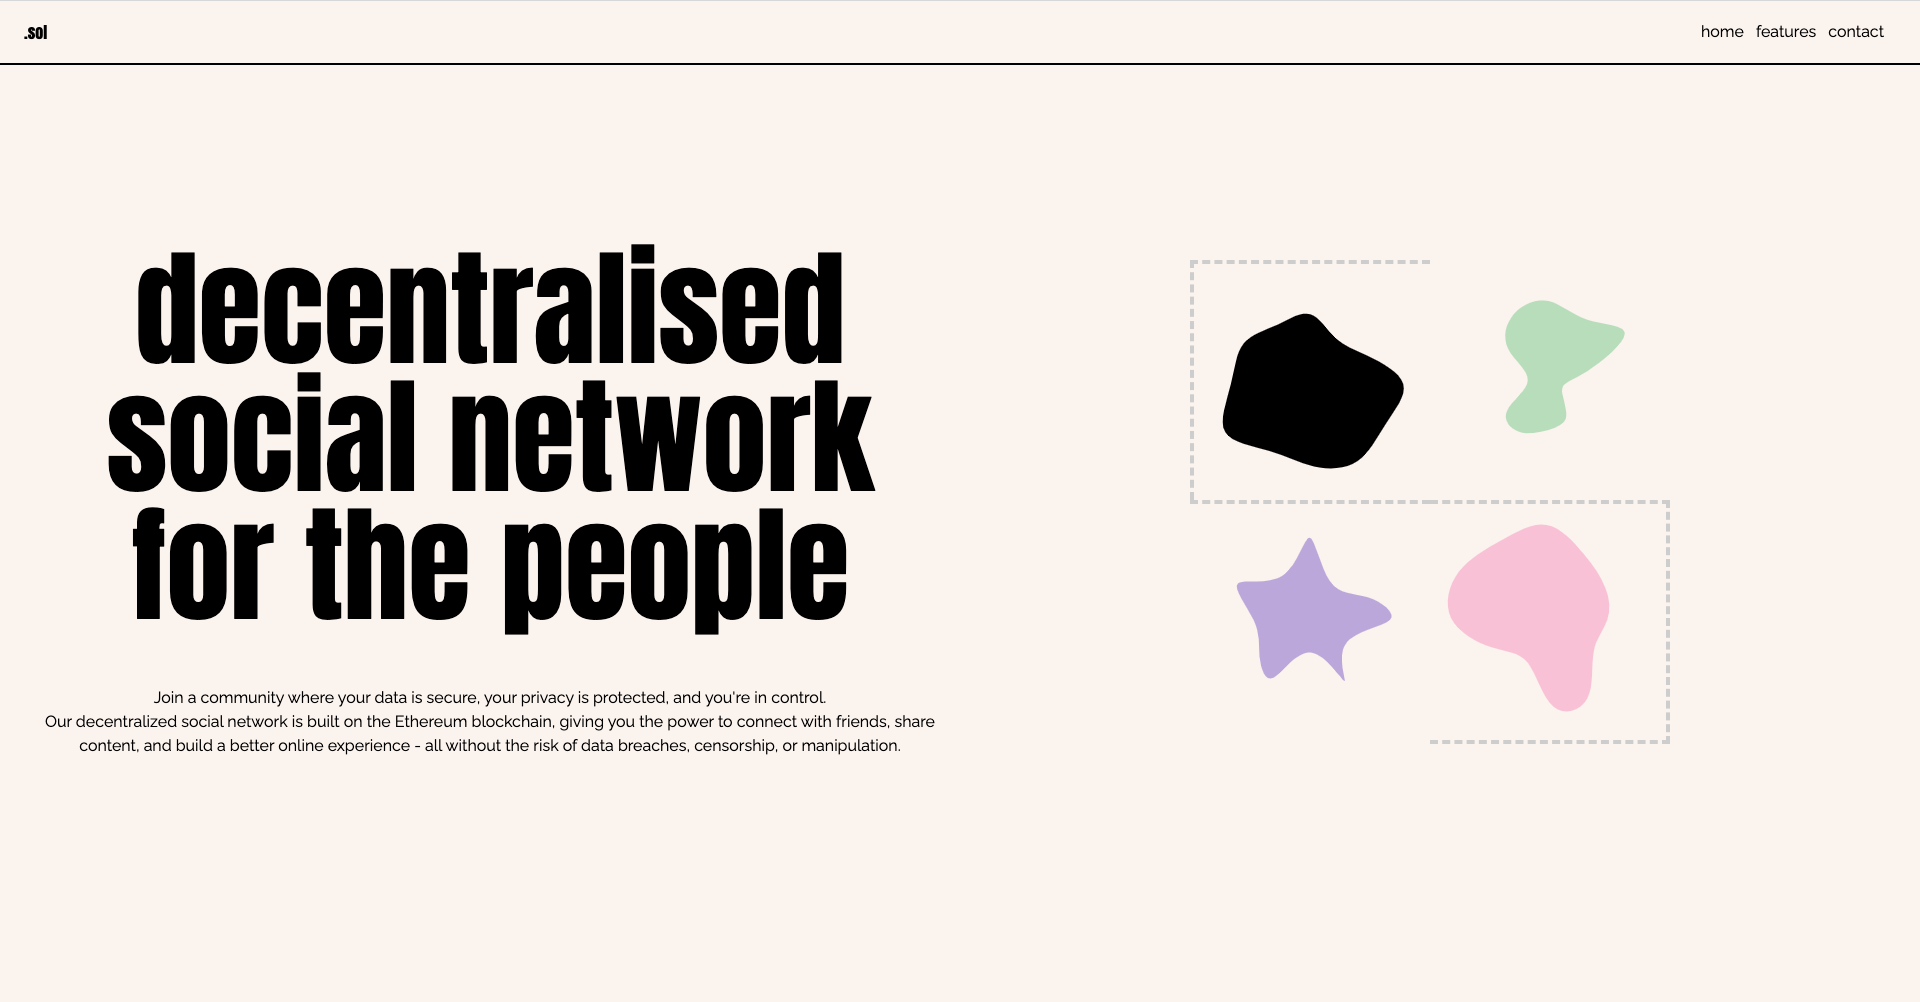
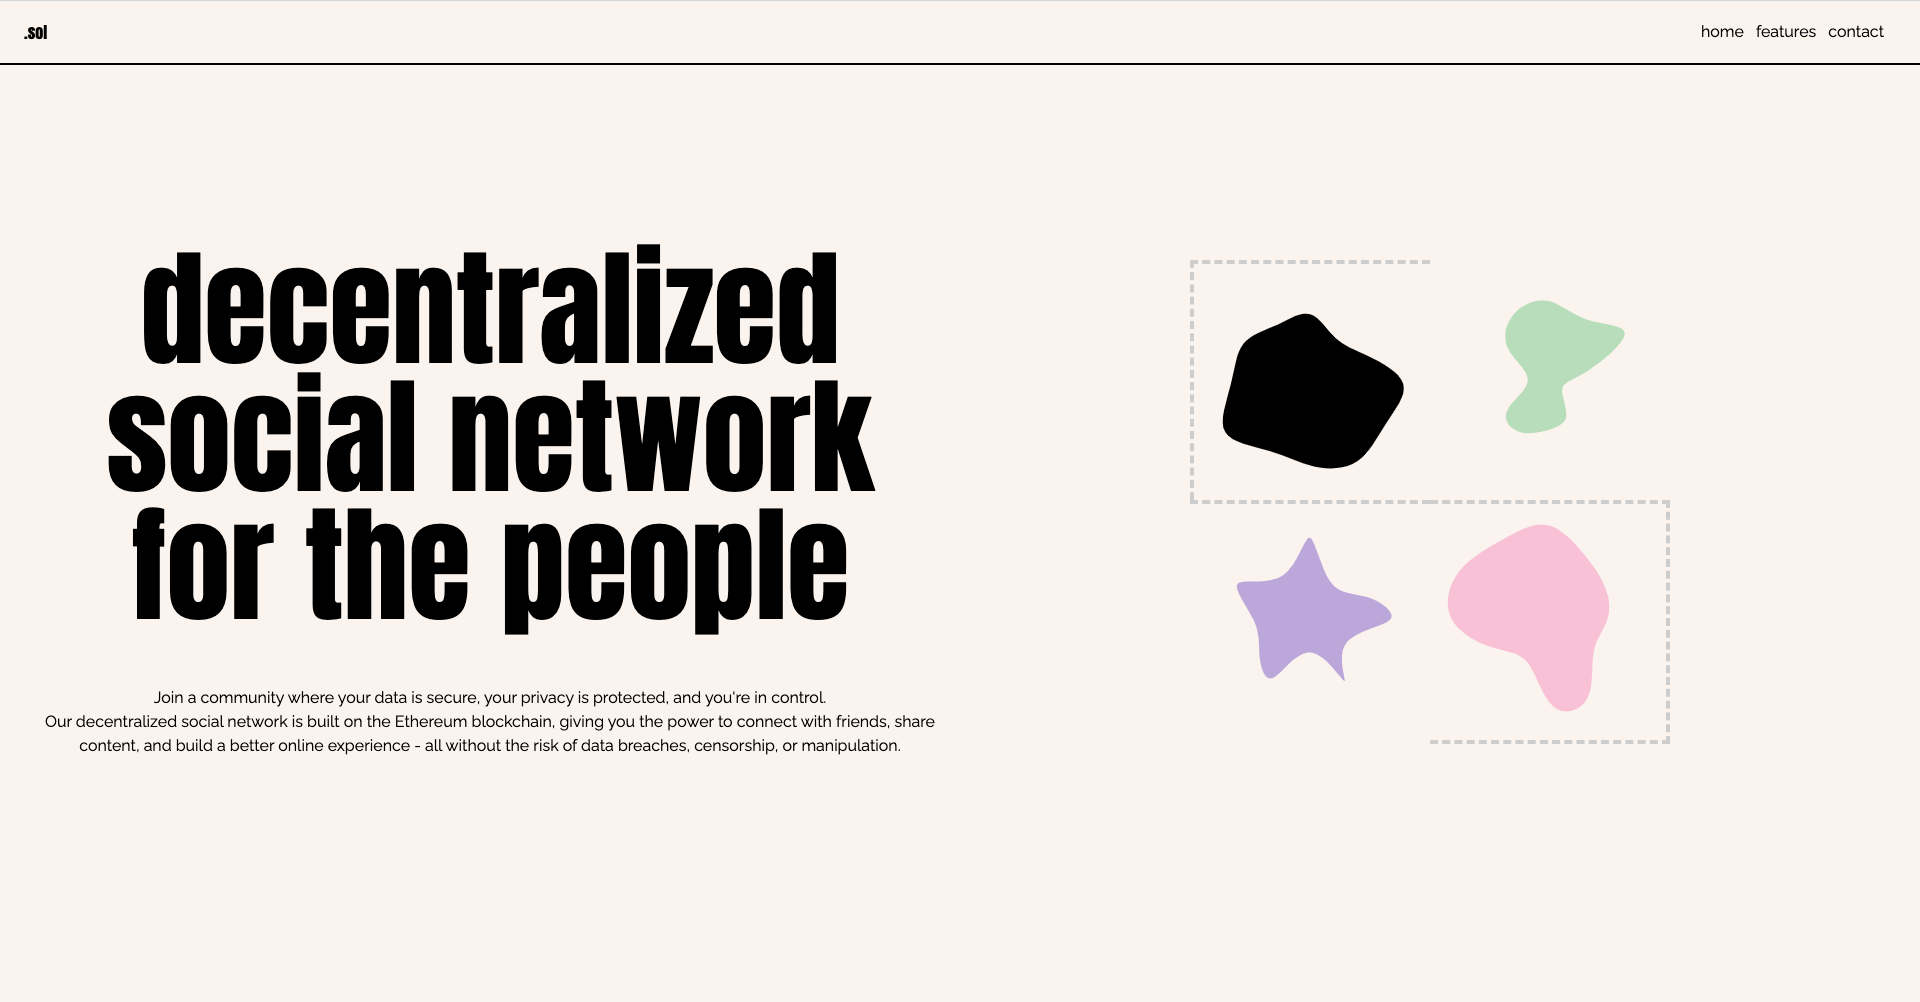
Add modal without animation

Changed region(s): [[0.0625, 0.2475, 0.4375, 0.3713]]

diff --git a/frontend/src/components/display/Modal.tsx b/frontend/src/components/display/Modal.tsx
@@ -1,0 +1,65 @@
+import Image from 'next/image';
+import { useEffect, ReactNode, useCallback } from 'react';
+
+import closeIcon from '@/assets/home/header/close.svg';
+
+function Modal(props: ModalProps) {
+  const closeOnEscapeKeyDown = useCallback(
+    (e: KeyboardEvent) => {
+      if (e.key === 'Esc' || e.key === 'Escape') props.onHide();
+    },
+    [props]
+  );
+
+  useEffect(() => {
+    document.body.addEventListener('keydown', closeOnEscapeKeyDown);
+    return () => {
+      document.body.removeEventListener('keydown', closeOnEscapeKeyDown);
+    };
+  }, [closeOnEscapeKeyDown]);
+
+  return props.show ? (
+    <div
+      className="modal fixed top-0 left-0 right-0 bottom-0 w-screen h-screen bg-[rgba(0,0,0,0.5)] flex items-center justify-center"
+      onClick={props.onHide}
+    >
+      <div
+        className="modal__content bg-[var(--sol-bg-main)] w-[100%] max-w-[500px] border-8 border-black p-4"
+        onClick={(e) => e.stopPropagation()}
+      >
+        <div className="modal__header flex items-center justify-between mb-2">
+          <h1 className="modal__title text-xl">{props.title}</h1>
+          {!!props.closeButton && (
+            <button onClick={props.onHide}>
+              <Image
+                src={closeIcon}
+                width={36}
+                height={36}
+                alt="Close modal icon"
+              />
+            </button>
+          )}
+        </div>
+        <div className="h-0.5 bg-black" />
+        <div className="modal__body my-3">{props.children}</div>
+        <div className="h-0.5 bg-black" />
+        <div className="modal__footer my-2">{props.Footer}</div>
+      </div>
+    </div>
+  ) : null;
+}
+
+Modal.defaultProps = {
+  closeButton: true,
+};
+
+interface ModalProps {
+  show: boolean;
+  title: string;
+  Footer: ReactNode;
+  children: ReactNode;
+  closeButton?: boolean;
+  onHide: () => void;
+}
+
+export default Modal;

diff --git a/frontend/src/pages/index.tsx b/frontend/src/pages/index.tsx
@@ -2,7 +2,7 @@ import Head from 'next/head';
 import Image from 'next/image';
 
 import landingBlobs from '@/assets/landing/blobs';
-import LandingHeader from '@/components/landing/header/Header';
+import LandingHeader from '@/components/landing/Header';
 
 const blobSize = 240;
 
@@ -13,7 +13,7 @@ export default function Landing() {
         <title>Solidus</title>
         <meta
           name="description"
-          content="Decentralised social networking application"
+          content="Decentralized social networking application"
         />
         <meta name="viewport" content="width=device-width, initial-scale=1" />
         <link rel="icon" href="/favicon.ico" />
@@ -24,7 +24,7 @@ export default function Landing() {
         <div className="hero home rounded-lg p-5 text-center flex h-[100%]">
           <div className="hero__left border-slate w-[100%] lg:w-1/2 p-1 flex flex-col items-center justify-center">
             <h1 className="text-7xl xl:text-8xl 2xl:text-9xl select-none p-2">
-              decentralised social network for the people
+              decentralized social network for the people
             </h1>
             <hr className="my-6" />
             <p className="p-2 pt-0">

diff --git a/frontend/src/components/home/Feed.tsx b/frontend/src/components/home/Feed.tsx
@@ -5,13 +5,11 @@ import { post1 } from '@/utils/data/Post';
 
 export default function Feed() {
   return (
-    <div
-      className={`post-feed border-slate w-[100%] h-[calc(100%)] overflow-auto`}
-    >
+    <div className="post-feed border-slate w-[100%] h-[calc(100%)] overflow-auto">
       {new Array(20).fill(null).map((_, i) => (
         <div
           key={`post-${i}`}
-          className="post-feed__post-item bg-[var(--sol-secondary-bg)] pt-4"
+          className="post-feed__post-item bg-[var(--sol-bg-secondary)] border-black border-8 pt-4 my-4"
         >
           <div className="post-feed__post-item-meta flex items-center px-2 my-2">
             {
@@ -36,7 +34,7 @@ export default function Feed() {
             {!!post1.text && !!post1.image && <hr className="mb-4" />}
             {!!post1.image && (
               <img
-                className="my-2 border-black border-4"
+                className="my-2 border-black border-2"
                 src={post1.image}
                 alt="Post image"
               />

diff --git a/frontend/src/components/home/PostForm.tsx b/frontend/src/components/home/PostForm.tsx
@@ -1,0 +1,30 @@
+import Image from 'next/image';
+import { useState } from 'react';
+
+import Modal from '@/components/display/Modal';
+import writeIcon from '@/assets/home/header/write.svg';
+
+function PostForm() {
+  const [showModal, setShowModal] = useState(false);
+  return (
+    <>
+      <button
+        className="hover:opacity-50 active:opacity-25"
+        onClick={() => setShowModal(true)}
+      >
+        <Image src={writeIcon} width={32} height={32} alt="Write post icon" />
+      </button>
+
+      <Modal
+        show={showModal}
+        title="Create Post"
+        Footer={<div>Footer</div>}
+        onHide={() => setShowModal(false)}
+      >
+        <div>Modal body</div>
+      </Modal>
+    </>
+  );
+}
+
+export default PostForm;

diff --git a/frontend/src/components/landing/Header.tsx b/frontend/src/components/landing/Header.tsx
@@ -3,7 +3,7 @@ import landingTitles from '@/utils/constants/landingTitles';
 
 function LandingHeader() {
   return (
-    <nav className="bg-[var(--sol-main-bg)] w-[100vw] h-[64px] fixed flex items-center justify-between px-6 border-b-black border-b-2">
+    <nav className="bg-[var(--sol-bg-main)] w-[100vw] h-[64px] fixed flex items-center justify-between px-6 border-b-black border-b-2">
       <Logo />
       <div className="nav-links">
         {landingTitles.map((title: string) => (

diff --git a/frontend/src/components/home/Header.tsx b/frontend/src/components/home/Header.tsx
@@ -1,0 +1,17 @@
+import PostForm from './PostForm';
+import SearchInput from './SearchInput';
+import Logo from '@/components/display/Logo';
+
+function HomeHeader() {
+  return (
+    <nav className="bg-[var(--sol-bg-main)] w-screen h-[96px] fixed flex items-center justify-between border-b-black border-b-2 px-6">
+      <Logo />
+      <div>
+        <SearchInput />
+      </div>
+      <PostForm />
+    </nav>
+  );
+}
+
+export default HomeHeader;

diff --git a/frontend/src/styles/globals.css b/frontend/src/styles/globals.css
@@ -3,12 +3,12 @@
 @import 'tailwindcss/utilities';
 
 :root {
-  --sol-main-bg: #fbf5ef;
-  --sol-secondary-bg: #fffdfc;
+  --sol-bg-main: #fbf5ef;
+  --sol-bg-secondary: #fffdfc;
   --sol-green: #c1e1c1;
   --sol-purple: #c3b1e1;
 }
 
 html {
-  background-color: var(--sol-main-bg);
+  background-color: var(--sol-bg-main);
 }

diff --git a/frontend/src/components/home/SearchInput.tsx b/frontend/src/components/home/SearchInput.tsx
@@ -13,7 +13,7 @@ function SearchInput() {
   };
   return (
     <form
-      className="flex justify-between w-[100%] border-2 border-black bg-[white] px-3"
+      className="flex justify-between w-[100%] border-8 border-black bg-[white] px-3"
       onSubmit={onSearch}
     >
       <input

diff --git a/frontend/src/pages/home.tsx b/frontend/src/pages/home.tsx
@@ -1,5 +1,5 @@
-import Feed from '@/components/home/feed/Feed';
-import HomeHeader from '@/components/home/header/Header';
+import Feed from '@/components/home/Feed';
+import HomeHeader from '@/components/home/Header';
 
 function Home() {
   return (

diff --git a/README.md b/README.md
@@ -2,6 +2,6 @@
 
 ![Server CI](https://github.com/danielfamiyeh/solidus/actions/workflows/backend.yml/badge.svg)
 
-Decentralised social network built on the Ethereum blockchain
+Decentralized social network built on the Ethereum blockchain
 
 ![Landing Page](./media/screenshots/home.png)
